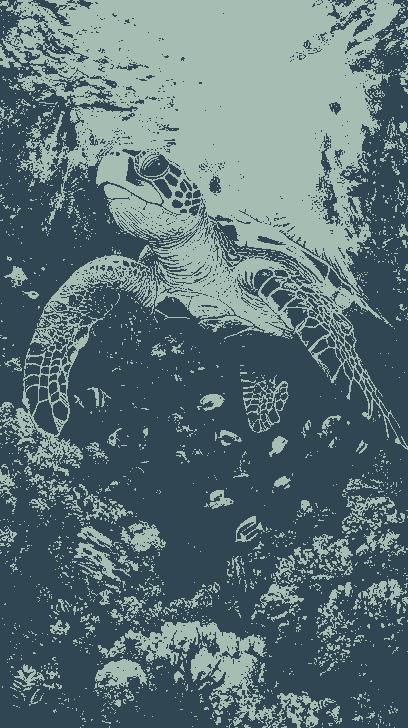
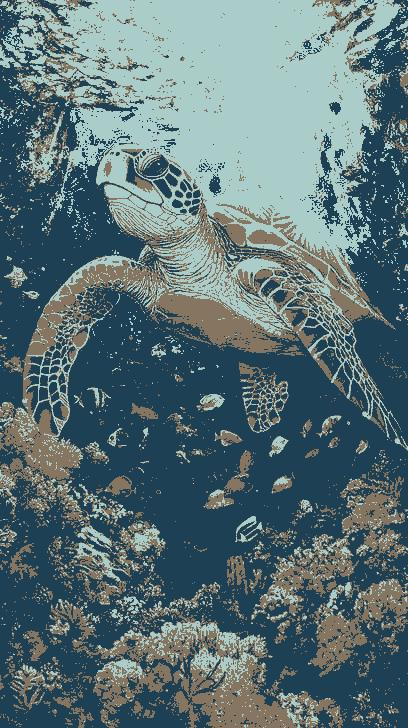
displaying the size changes

diff --git a/main.py b/main.py
@@ -92,4 +92,11 @@ if __name__ == "__main__":
     means, points = initialize_means(img, clusters)
     means, index_values = k_means(points, means, clusters)
     compress_image(means, index_values, img)
+
+    size_of_image = img.shape[0] * img.shape[1] * img.shape[2]
+    print("Size of the original image: ", size_of_image)
+    compressed_size = clusters * img.shape[2] + points.shape[0]
+    print("Size of the compressed image: ", compressed_size)
+    
+    
     